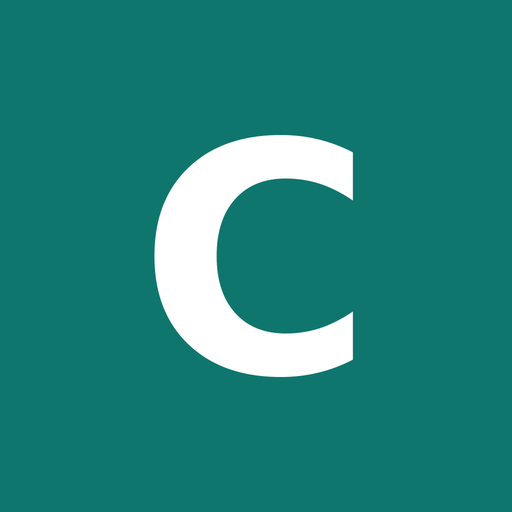
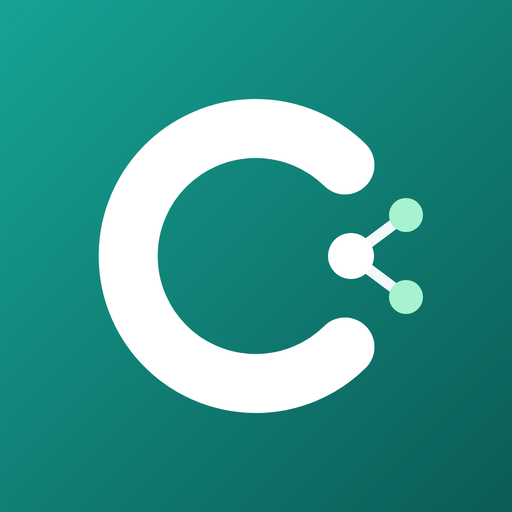
Add files via upload

diff --git a/index.html b/index.html
@@ -38,10 +38,12 @@
   .rede-ic.facebook{background:#1877f2}
   .rede-ic.youtube{background:#ff0000}
 </style>
+<link rel="icon" type="image/png" href="icone-app.png">
+<link rel="apple-touch-icon" href="icone-app.png">
 </head>
 <body>
   <main class="cartao">
-    <div class="logo"><span>C</span>Clic Redes</div>
+    <div class="logo"><span style="background:url(icone-app.png) center/cover no-repeat;color:transparent;font-size:0">C</span>Clic Redes</div>
     <p class="sub">Entre para agendar e acompanhar suas redes.</p>
     <form id="form">
       <label for="email">E-mail</label>
@@ -63,7 +65,7 @@
   </section>
   <footer>
     <a href="privacidade.html">Política de privacidade</a> · <a href="termos.html">Termos de uso</a><br>
-    Clic Redes · index.html v1.1
+    Clic Redes · index.html v1.2
   </footer>
 
 <script src="https://cdn.jsdelivr.net/npm/@supabase/supabase-js@2"></script>
@@ -98,4 +100,3 @@
 </script>
 </body>
 </html>
-

diff --git a/privacidade.html b/privacidade.html
@@ -21,10 +21,12 @@
   a{color:var(--marca)}
   footer{text-align:center;font-size:12px;color:var(--suave);margin-top:20px}
 </style>
+<link rel="icon" type="image/png" href="icone-app.png">
+<link rel="apple-touch-icon" href="icone-app.png">
 </head>
 <body>
 <main>
-  <div class="logo"><span>C</span>Clic Redes</div>
+  <div class="logo"><span style="background:url(icone-app.png) center/cover no-repeat;color:transparent;font-size:0">C</span>Clic Redes</div>
   <article>
     <h1>Política de privacidade</h1>
     <p class="data">Atualizada em 22 de outubro de 2026</p>
@@ -66,7 +68,7 @@
     <h2>7. Contato</h2>
     <p>Dúvidas sobre esta política: <a href="mailto:clicredesoficial@gmail.com">clicredesoficial@gmail.com</a>.</p>
   </article>
-  <footer>Clic Redes · privacidade.html v1.1</footer>
+  <footer>Clic Redes · privacidade.html v1.2</footer>
 </main>
 </body>
 </html>

diff --git a/marca.js b/marca.js
@@ -1,6 +1,6 @@
 // =====================================================================
 // Clic Redes - marca.js
-// Versao 1.1 - 30/10/2026 (jeito de aplicativo no celular)
+// Versao 1.2 - 04/11/2026 (logo nova no topo de todas as telas)
 // Escolha da empresa (E-Club, Remixinho...) no topo de todas as telas.
 // A escolha fica guardada neste navegador e vale para todas as telas.
 // No celular: topo fixo e compacto + barra de botoes embaixo, como app.
@@ -79,6 +79,7 @@ window.ClicMarca = {
   if (vp && !vp.content.includes("viewport-fit")) vp.content += ", viewport-fit=cover";
 
   const css = `
+  .logo span{background:url(icone-app.png) center/cover no-repeat!important;color:transparent!important;font-size:0!important}
   .barra-app{display:none}
   @media (max-width:760px){
     header{position:sticky;top:0;z-index:15;padding-top:env(safe-area-inset-top)}

diff --git a/termos.html b/termos.html
@@ -21,10 +21,12 @@
   a{color:var(--marca)}
   footer{text-align:center;font-size:12px;color:var(--suave);margin-top:20px}
 </style>
+<link rel="icon" type="image/png" href="icone-app.png">
+<link rel="apple-touch-icon" href="icone-app.png">
 </head>
 <body>
 <main>
-  <div class="logo"><span>C</span>Clic Redes</div>
+  <div class="logo"><span style="background:url(icone-app.png) center/cover no-repeat;color:transparent;font-size:0">C</span>Clic Redes</div>
   <article>
     <h1>Termos de uso</h1>
     <p class="data">Atualizados em 22 de outubro de 2026</p>
@@ -59,7 +61,7 @@
     <h2>8. Contato</h2>
     <p>Dúvidas: <a href="mailto:clicredesoficial@gmail.com">clicredesoficial@gmail.com</a>.</p>
   </article>
-  <footer>Clic Redes · termos.html v1.0</footer>
+  <footer>Clic Redes · termos.html v1.1</footer>
 </main>
 </body>
 </html>
